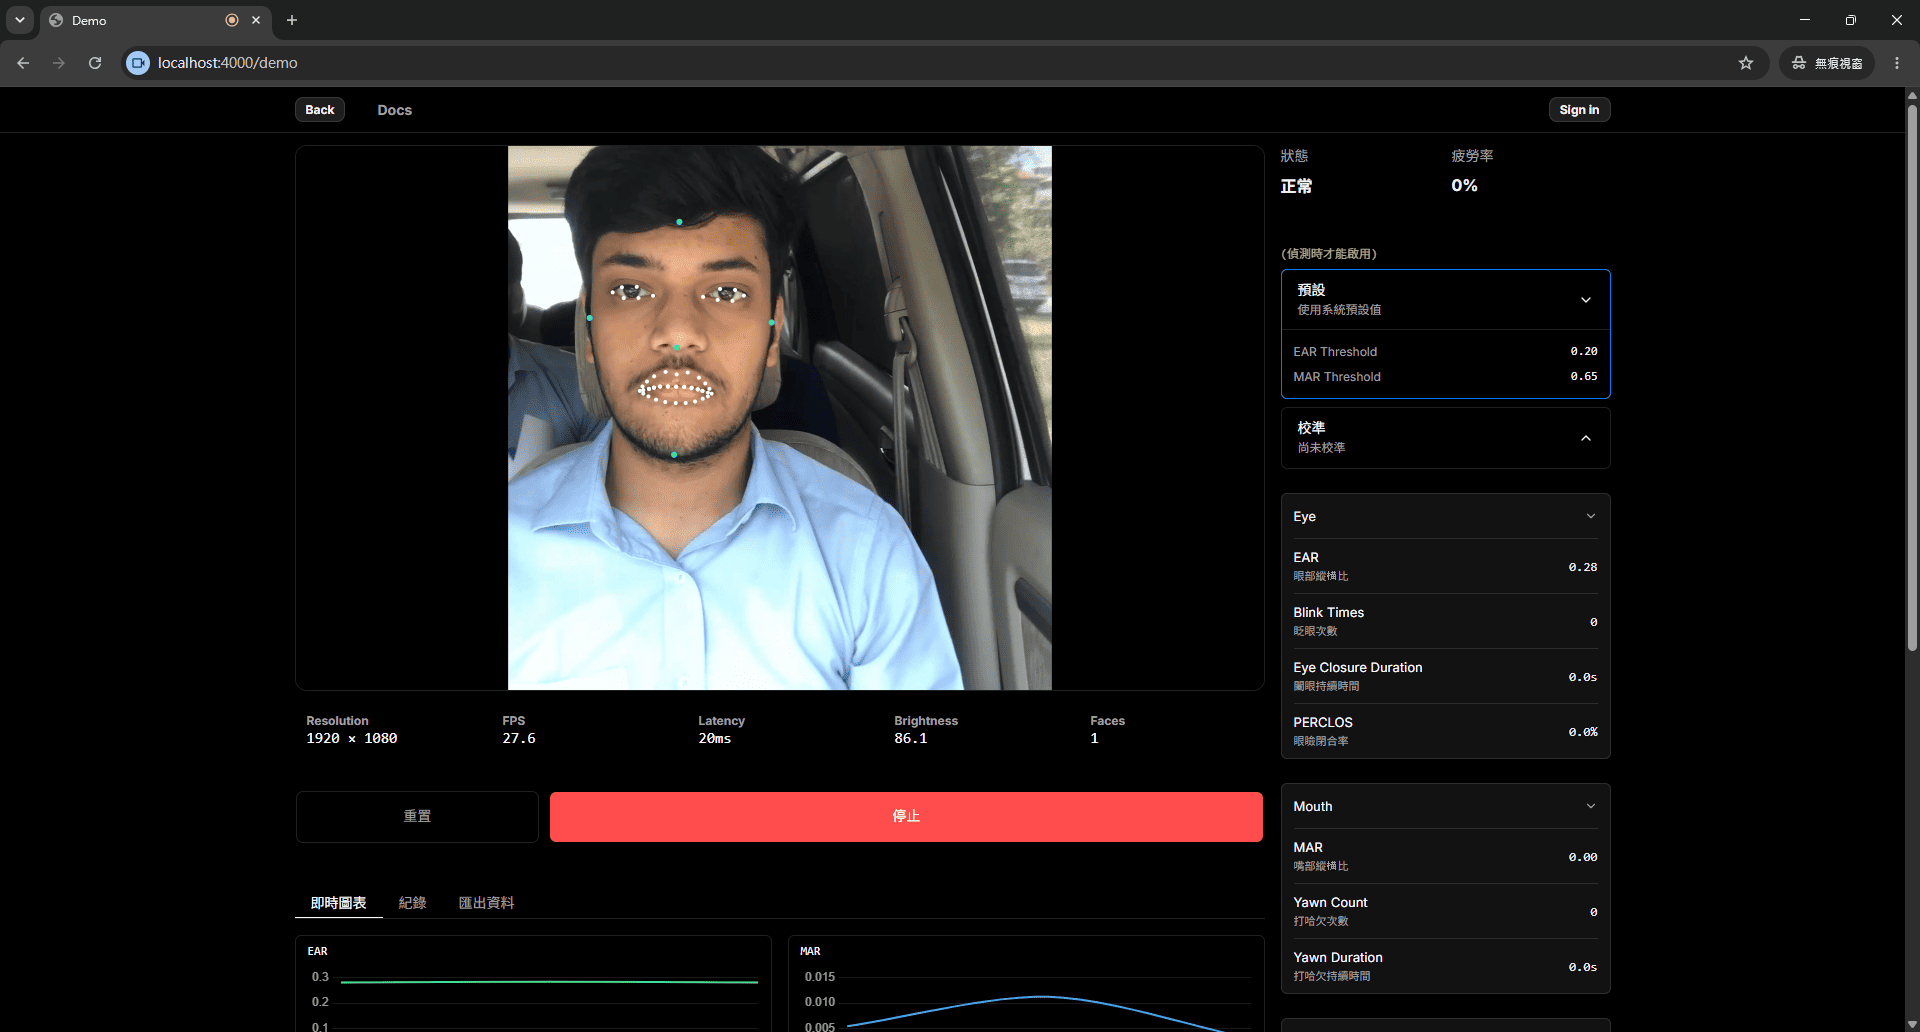
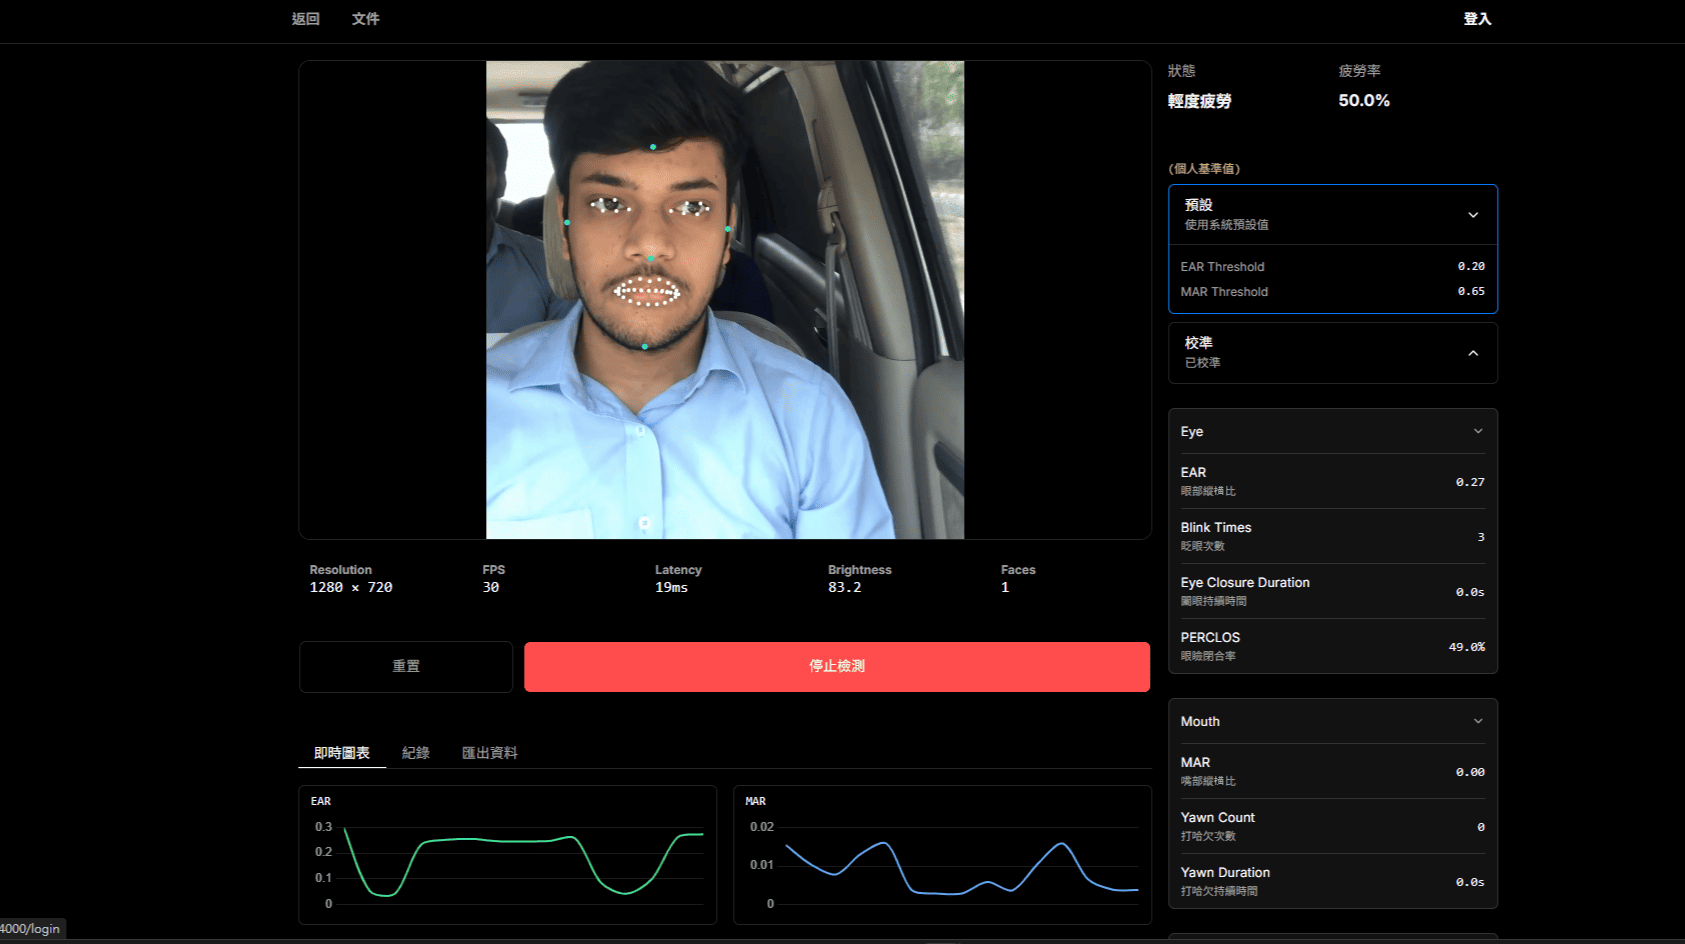
update

diff --git a/assets/js/alert/alert.js b/assets/js/alert/alert.js
@@ -41,7 +41,7 @@ function initializeAlert() {
 
     if (Number(data.faces ?? 0) === 0) {
       messageText.textContent = "未偵測到臉";
-      message.style.background = "rgba(108, 117, 125, 0.9)";
+      message.style.background = "rgba(108, 117, 125, 0.4)";
       message.classList.remove("hidden");
       overlay.classList.add("active");
       return;

diff --git a/database.py b/database.py
@@ -10,7 +10,7 @@ database.py - 混合架構資料庫模組 (Hybrid Database Module)
 import os
 from datetime import datetime, timezone
 from dataclasses import dataclass
-from typing import Any, Dict, List, Optional
+from typing import Any, Dict, List, LiteralString, Optional, cast
 
 # PostgreSQL 原生連線驅動
 import psycopg
@@ -19,9 +19,8 @@ from psycopg.rows import DictRow, dict_row
 
 # Supabase 官方 SDK
 try:
-    from supabase import Client, create_client
+    from supabase import create_client
 except ImportError:
-    Client = Any  # type: ignore
     create_client = None  # type: ignore
 
 
@@ -32,7 +31,7 @@ SUPABASE_PROJECT_URL = os.environ.get("SUPABASE_PROJECT_URL", "").strip()
 SUPABASE_PUBLISHABLE_KEY = os.environ.get("SUPABASE_PUBLISHABLE_KEY", "").strip()
 
 # 初始化 Supabase SDK Client（供 Storage / Realtime / 降級查詢使用）
-supabase: Optional[Client] = None
+supabase: Optional[Any] = None
 if SUPABASE_PROJECT_URL and SUPABASE_PUBLISHABLE_KEY and create_client is not None:
     try:
         supabase = create_client(SUPABASE_PROJECT_URL, SUPABASE_PUBLISHABLE_KEY)
@@ -155,7 +154,7 @@ def init_db() -> None:
         supabase.table("users").select("*").limit(1).execute()
         supabase.table("event").select("*").limit(1).execute()
     else:
-        raise RuntimeError("未設定 SUPABASE_DIRECT_CONNECTION_URL 亦未設定 SUPABASE_PROJECT_URL")
+        raise RuntimeError("未設定 SUPABASE_DIRECT_CONNECTION_URL 與 SUPABASE_PROJECT_URL 於 .env 中。")
 
 
 # ========== 使用者操作 (User Operations) ==========
@@ -248,7 +247,7 @@ def list_users(
         """
         with _connect_dict() as connection:
             with connection.cursor() as cursor:
-                cursor.execute(query, tuple(params))
+                cursor.execute(cast(LiteralString, query), tuple(params))
                 rows = cursor.fetchall()
         return [User.from_row(row) for row in rows]
     elif supabase:
@@ -345,7 +344,7 @@ def update_user(
         """
         with _connect_dict() as connection:
             with connection.cursor() as cursor:
-                cursor.execute(sql_query, tuple(params))
+                cursor.execute(cast(LiteralString, sql_query), tuple(params))
                 row = cursor.fetchone()
         return User.from_row(row) if row else None
     elif supabase:
@@ -418,10 +417,7 @@ def insert_event(data: Dict[str, Any]) -> AlertEvent:
 
 
 def list_recent_alerts(limit: int, driver_ids: Optional[List[Any]] = None) -> List[AlertEvent]:
-    """
-    查詢最新警報紀錄，使用 LEFT JOIN 同時取得司機帳號 (userID) 與名稱 (userName)。
-    支援依 driver_ids 篩選 (車隊管理員查看轄下司機)。
-    """
+
     if is_direct_db_configured():
         where_sql = ""
         params: List[Any] = []
@@ -447,7 +443,7 @@ def list_recent_alerts(limit: int, driver_ids: Optional[List[Any]] = None) -> Li
 
         with _connect_dict() as connection:
             with connection.cursor() as cursor:
-                cursor.execute(query, tuple(params))
+                cursor.execute(cast(LiteralString, query), tuple(params))
                 rows = cursor.fetchall()
         return [AlertEvent.from_row(row) for row in rows]
     elif supabase:
